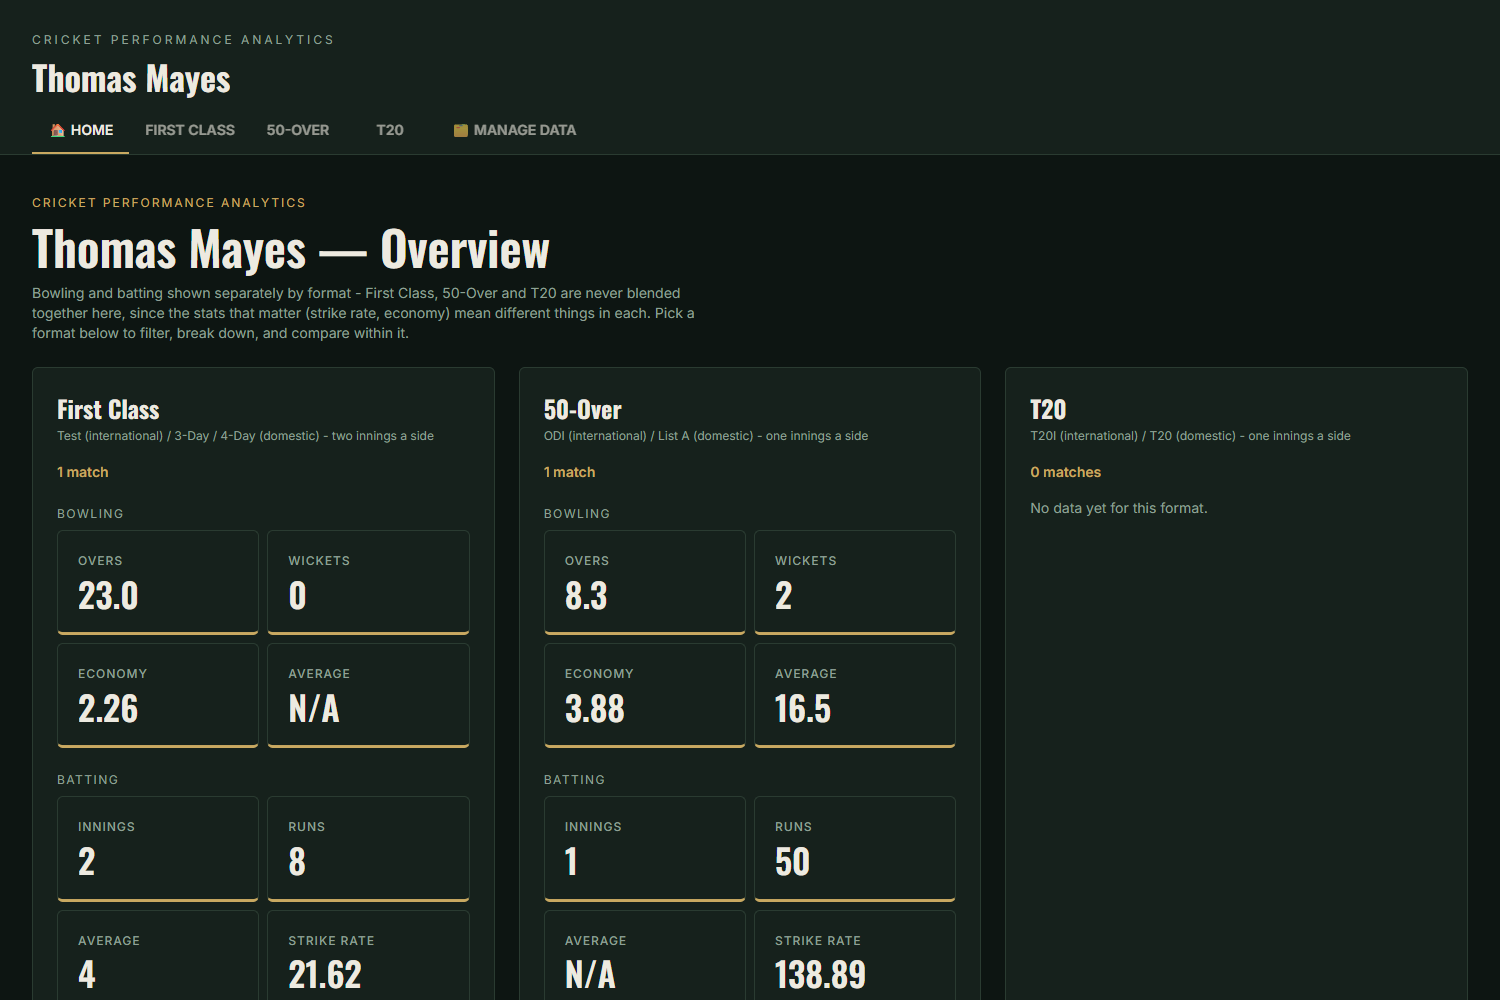
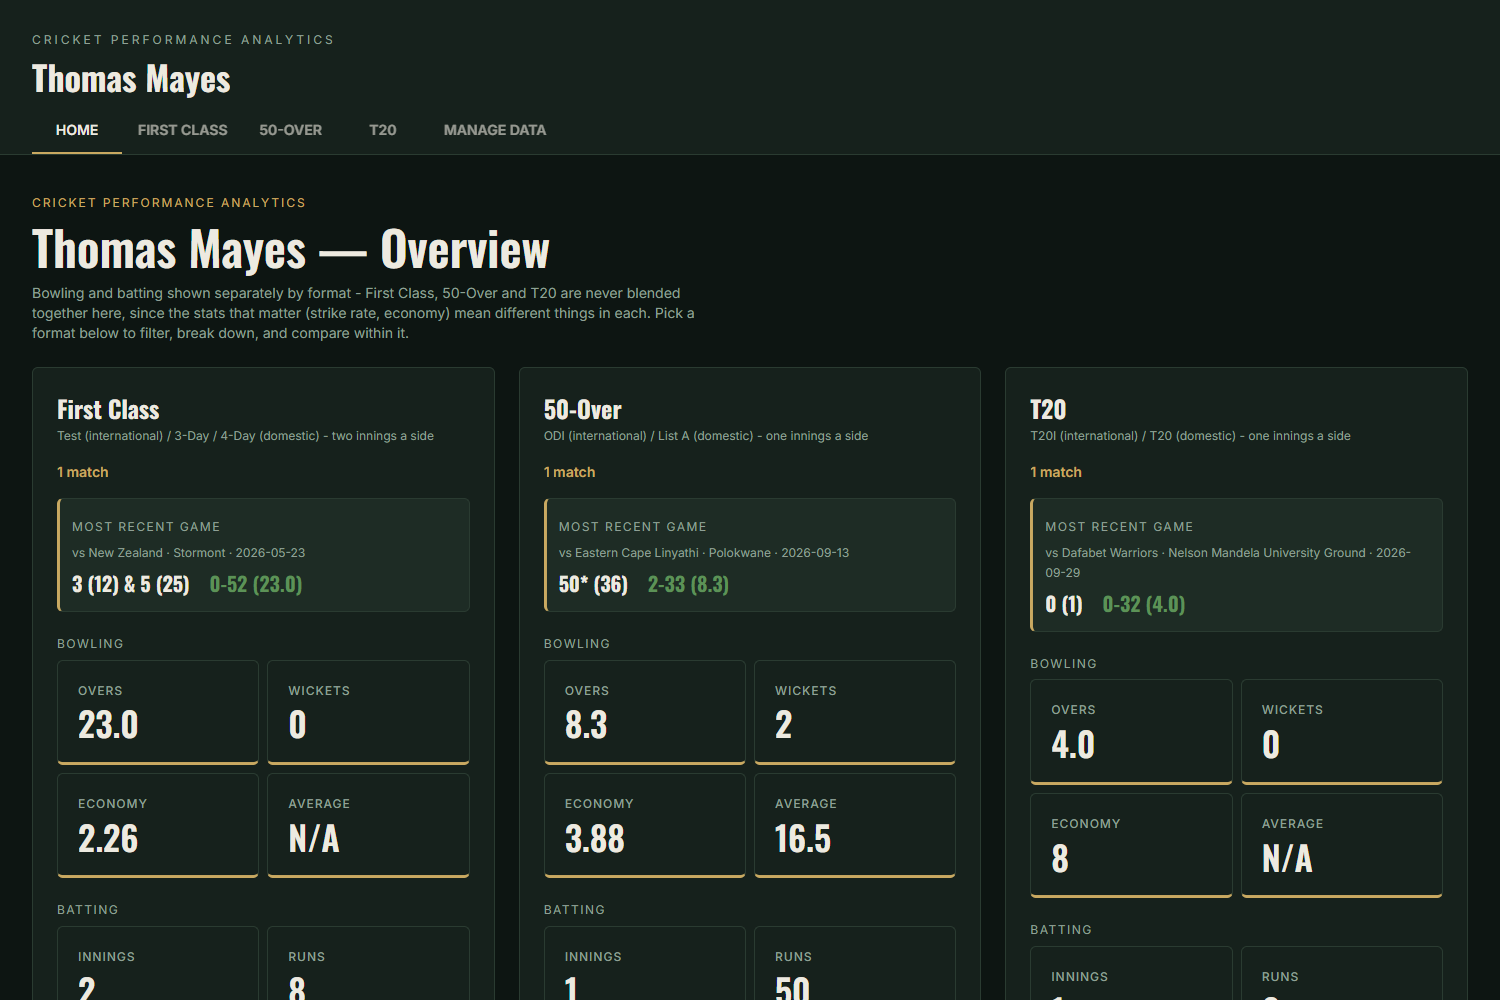
Refresh README and screenshots for the latest feature set
Updates the feature list, delivery count, and stale module references
to match the current codebase, and replaces the Home/Manage Data
screenshots with ones that actually show the most-recent-game panel
and the data-quality fix picker.

diff --git a/README.md b/README.md
@@ -66,16 +66,26 @@ can't tell you?* Things like:
 - **Format tiers kept strictly separate** — First Class, 50-Over, and T20 are
   never blended into one average, because they measure different things (see
   [Methodology](docs/METHODOLOGY.md#format-tiers-and-why-theyre-never-blended)).
+  Format is a required, explicit field on every match, not guessed from the
+  competition name — a sponsor-branded competition name can't be reliably
+  parsed for its format, so this app doesn't try to.
+- **"Most recent game" at a glance** on the home page and in the match list —
+  scorecard-style figures (e.g. `50*(36)` batting, `2-33 (8.3)` bowling) for
+  every innings of a match, including both innings of a two-innings First
+  Class game.
 - **Season / date-range trends** across a tier.
 - **Match list and a head-to-head comparison view** (e.g. one ground vs.
   another, one season vs. another).
 - **In-app data quality tooling** — re-validates the source spreadsheet on
   every load (not just at ingestion) and flags issues like inconsistent
-  capitalisation of the same value, so data problems are visible without
-  opening a terminal.
+  capitalisation of the same value. Fixable issues (a spelling inconsistency,
+  an off-vocabulary value) get an inline picker to correct every affected row
+  directly, no spreadsheet editing required.
 - **Add a match without touching code or SQL**: download a pre-built Excel
-  template with data-validation dropdowns, fill in one row per delivery,
-  upload it, and it's validated and merged into the dataset automatically.
+  template with data-validation dropdowns, fill in one row per delivery, and
+  upload it. A value that hasn't appeared before (a new ground, a new way of
+  describing a shot) is reviewed one at a time before merging — confirm it's
+  genuinely new, or pick the existing value it should actually be.
 - Every rate statistic is annotated when it's built from a small sample,
   rather than presented with false confidence (see
   [Methodology](docs/METHODOLOGY.md#sample-size-discipline)).
@@ -115,7 +125,7 @@ faced vs. balls bowled).
 
 The dataset is Thomas Mayes's own real, hand-scored ball-by-ball match
 history — genuine matches, played and scored as they happened, not simulated
-or synthetic data. It currently covers 190 bowling deliveries and 73 batting
+or synthetic data. It currently covers 215 bowling deliveries and 74 batting
 deliveries across First Class, 50-Over, and T20 cricket. Thomas has agreed to
 this data, including real opposition players' names where they appear as
 context on a delivery (e.g. "the batter Thomas bowled to"), being published
@@ -123,8 +133,7 @@ as part of this portfolio project.
 
 Source data lives in a single Excel workbook
 (`backend/data/raw/Mayes_Bowling_Batting.xlsx`) with two sheets — one row per
-delivery for bowling, one row per delivery for batting — plus a categories
-sheet used for the upload template's dropdown validation. The database is
+delivery for bowling, one row per delivery for batting. The database is
 never hand-edited: it's fully rebuilt from this workbook by the ingestion
 pipeline every time, which is what makes the "download template → fill in →
 upload → merges automatically" workflow safe (see
@@ -156,8 +165,8 @@ cricket-analytics/
 │   ├── app/
 │   │   ├── main.py                # FastAPI app, all /api/* endpoints
 │   │   ├── db/                    # schema.sql, connection/init helpers
-│   │   ├── ingestion/             # spreadsheet -> SQLite pipeline, upload/merge, validation
-│   │   ├── services/              # stats engines, filters, format classification, insights
+│   │   ├── ingestion/             # spreadsheet -> SQLite pipeline, upload/merge, validation, fixes
+│   │   ├── services/              # stats engines, filters, template generation, insights
 │   │   └── analysis_demo.py       # quick sanity-check script against real numbers
 │   ├── data/raw/                  # the source workbook
 │   ├── tests/                     # pytest suite over the stats engines
@@ -208,7 +217,7 @@ pip install -r requirements-dev.txt
 pytest
 ```
 The suite covers the stats engines directly (bowling/batting figures, the
-no-ball/bye economy edge cases, maiden-over detection, format classification,
+no-ball/bye economy edge cases, maiden-over detection, format-tier validation,
 and the generic filter system) — the parts of the app where a subtle mistake
 would silently produce a wrong cricket statistic.
 
